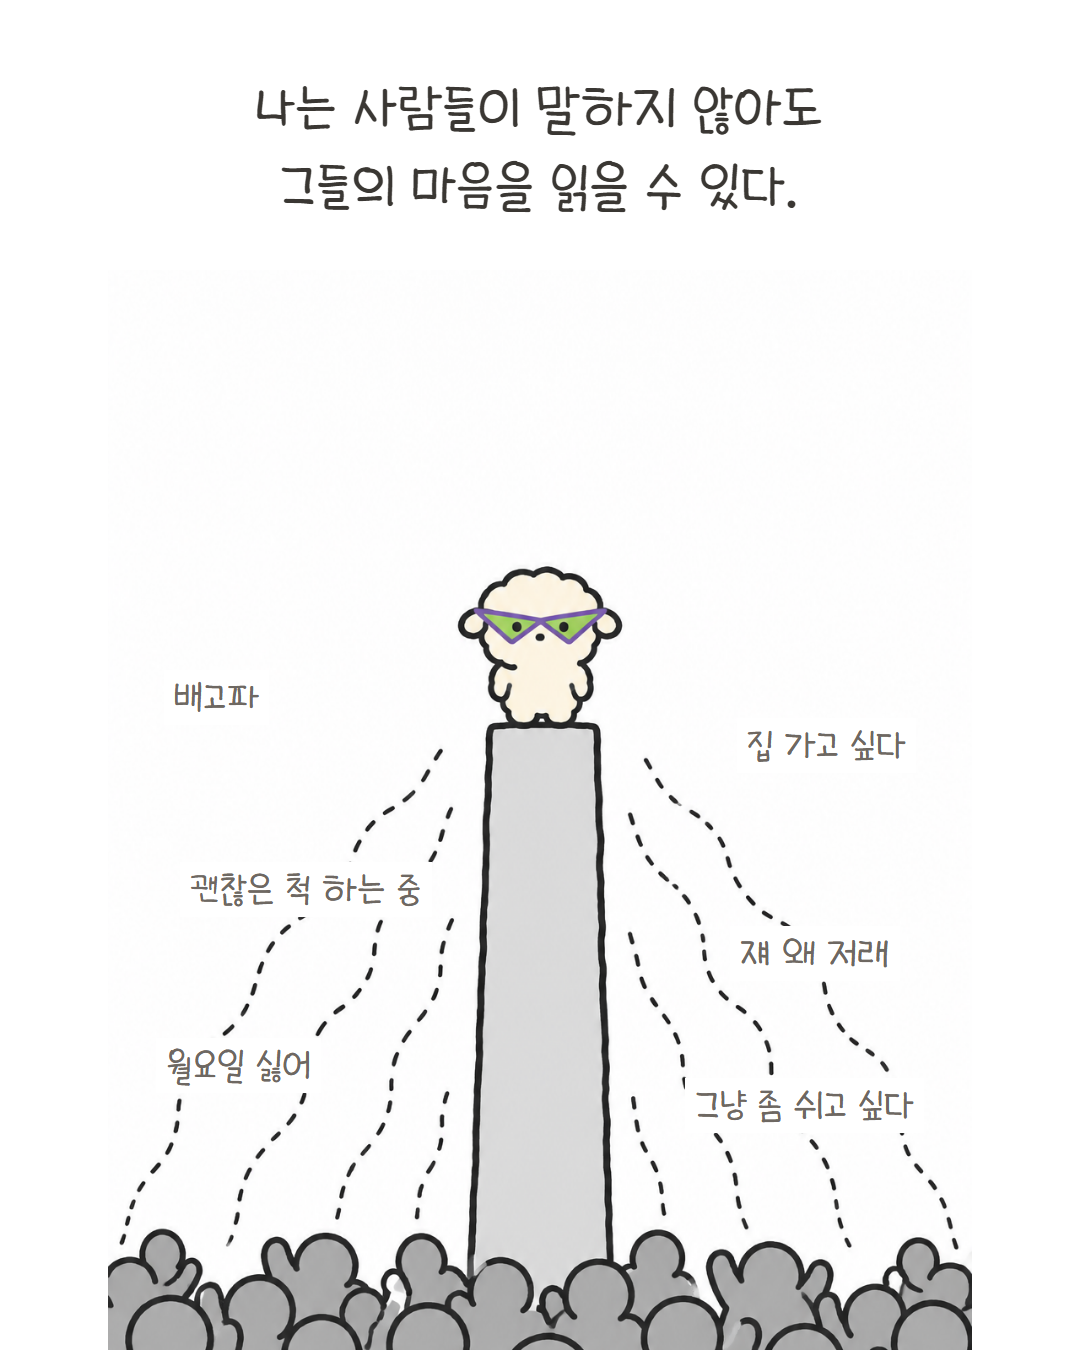
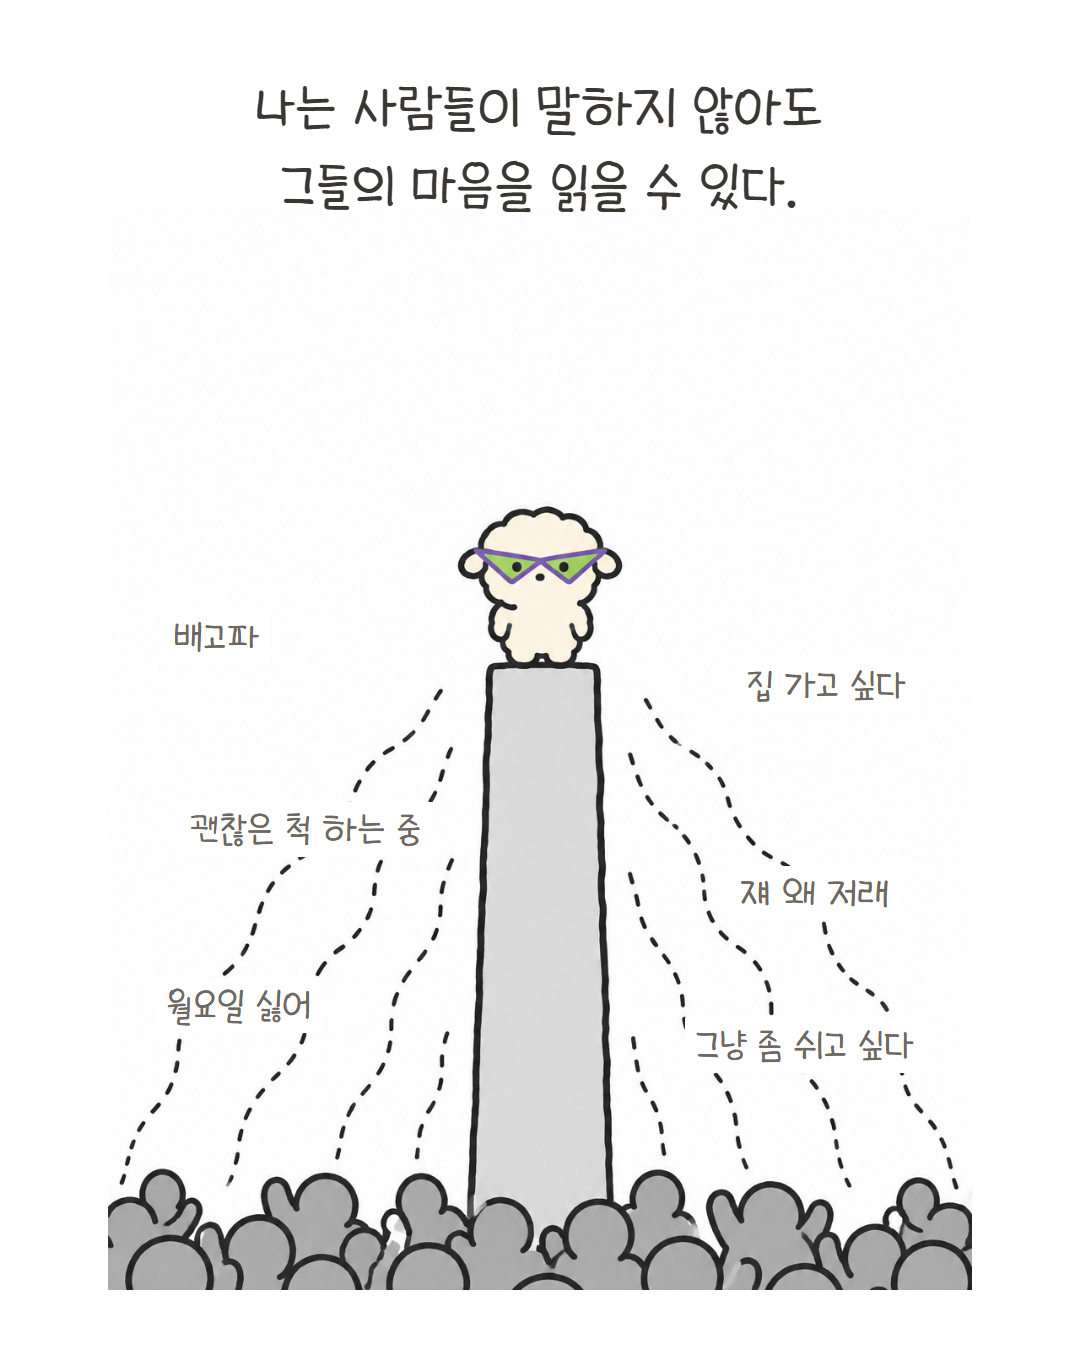
EP.01 컷1도 하단 여백 적용, 캡션 규칙: 내레이션 전문 + CTA + 태그

diff --git a/episodes/ep01/preview.html b/episodes/ep01/preview.html
@@ -28,14 +28,26 @@
   <img src="img/slide7.png" alt="slide 7">
   <img src="img/slide8.png" alt="slide 8">
   <h1>캡션</h1>
-  <pre>나는 눈치가 빠르다는 말을 자주 듣는다.
-사실은 빠른 게 아니라, 안 보려고 해도 보이는 것뿐이다.
-표정이 한 번 흔들리면 그 사람이 괜찮지 않다는 걸 알아 버리고,
-그때부터는 내 하루가 아니라 그 사람의 하루를 살게 된다.
+  <pre>나는 사람들이 말하지 않아도
+그들의 마음을 읽을 수 있다.
 
-그게 힘들어서 이 능력을 꺼 버리고 싶은 날도 많았다.
-그런데 이상하게, 내가 못 챙긴 나를 챙겨 준 건
-늘 내가 먼저 알아봐 줬던 사람들이었다.
+이 능력 덕분에
+많은 이들로부터 환영을 받기도 하고
+
+때로는 주류 무리의 반대를 무릅쓰고
+소외되는 이에게 손 내미는 영웅적 면모도 보여 준다.
+
+이 능력 때문에 필요 없는 눈치를 보거나
+손해를 자처할 때도 많고
+
+스스로의 마음을 돌보지 못하는 나를 미워하거나
+지난 날의 영웅적인 선택들까지 후회하기도 한다.
+
+그렇지만 내가 나를 챙기지 못할 때면,
+항상 내가 지켜낸 사람들이 나를 지켜 줬다.
+
+나는 앞으로도 사람들의 마음을 외면하지 않을 것이다.
+내가 건넨 손길들로 내 주변을 따뜻하게 할 수만 있다면.
 
 당신 옆의 초능력자를 태그해 주세요.
 

diff --git a/episodes/ep01/compose.html b/episodes/ep01/compose.html
@@ -23,7 +23,6 @@
   #s7 .cta{top:250px;bottom:auto}
   .cta{position:absolute;left:70px;right:70px;bottom:44px;text-align:center;font-size:38px;color:var(--point)}
   .dim img.art{filter:saturate(.7)}
-  #s1 img.art{bottom:0}
 </style>
 </head>
 <body>
@@ -38,12 +37,12 @@
   <img class="art" src="img/cut1.png" alt="" style="object-position:50% 50%">
   <div class="narr">나는 사람들이 말하지 않아도
 그들의 마음을 읽을 수 있다.</div>
-  <div class="mind t" style="left:164px;top:670px">배고파</div>
-  <div class="mind t" style="right:164px;top:718px">집 가고 싶다</div>
-  <div class="mind t" style="left:180px;top:862px">괜찮은 척 하는 중</div>
-  <div class="mind t" style="right:180px;top:926px">쟤 왜 저래</div>
-  <div class="mind t" style="left:156px;top:1038px">월요일 싫어</div>
-  <div class="mind t" style="right:156px;top:1078px">그냥 좀 쉬고 싶다</div>
+  <div class="mind t" style="left:164px;top:610px">배고파</div>
+  <div class="mind t" style="right:164px;top:658px">집 가고 싶다</div>
+  <div class="mind t" style="left:180px;top:802px">괜찮은 척 하는 중</div>
+  <div class="mind t" style="right:180px;top:866px">쟤 왜 저래</div>
+  <div class="mind t" style="left:156px;top:978px">월요일 싫어</div>
+  <div class="mind t" style="right:156px;top:1018px">그냥 좀 쉬고 싶다</div>
 </section>
 
 <section id="s2">

diff --git a/.claude/skills/make-episode/SKILL.md b/.claude/skills/make-episode/SKILL.md
@@ -43,7 +43,7 @@ description: 「작은 힘에도 작은 책임은 따른다」 에피소드 1편
 - 표지: 제목 3줄 이내, 핵심 단어 `<b>`로 포인트 컬러.
 - 컷: 상단 내레이션, **줄바꿈은 콘티에 적힌 그대로** (임의로 줄 수를 늘리지 않는다). 크기는 레퍼런스 실측(솜비 글자 높이 56px, 서밤 40px) 기준 내레이션 **56px**, 긴 줄은 그 슬라이드만 폭에 맞춰 자동 축소. 속마음·대사 **40px** 회색, 말풍선·박스 없이 캐릭터 옆에. CTA 38px.
 - Playwright MCP로 각 `<section>`을 `img/slideN.png`로 스크린샷 (viewport 1080×1350, `clip`). MCP 브라우저가 사용 중이면 `chrome-headless-shell.exe --headless --window-size=1080,1350 --virtual-time-budget=10000 --screenshot=img/slideN.png compose.html?only=N` (N은 0부터; `?only`는 compose.html에 그 슬라이드만 남기는 스크립트로 처리).
-- 이미지 크롭은 `object-position:50% 100%`(하단 기준)로 발이 안 잘리게 하고, 표지는 `object-fit:contain`.
+- 이미지 크롭은 `object-position:50% 100%`(하단 기준)로 발이 안 잘리게 하고, 표지는 `object-fit:contain`. 그림은 **80%로 축소**해 하단 60px·좌우 여백을 두고(`transform:scale(.8)`, 하단 기준), 모든 컷 동일 적용 — 군중처럼 프레임에 닿는 컷도 예외 없음.
 - 속마음 등 그림 옆 텍스트는 `python scripts/art_bbox.py img/cutN.png`로 그림 영역을 잰 뒤 그 밖에 놓는다. 프롬프트의 "상단 40% 비움"은 대략만 지켜지고(30~47%), 글자 폭은 폰트마다 달라 눈대중으로 두면 겹친다.
 
 ## 4. 산출물과 마무리
@@ -55,7 +55,7 @@ episodes/epNN/
   img/cutN.png, slideN.png
   compose.html
   preview.html    슬라이드 8장 세로 나열 (모바일 확인용)
-  caption.txt     캡션 1–2줄 + 고정 해시태그
+  caption.txt     컷 1–7 내레이션 전문(컷별 문단, 줄바꿈 그대로) → 빈 줄 → "당신 옆의 초능력자를 태그해 주세요." → 해시태그
 ```
 
 - 고정 해시태그: `#작은힘에도작은책임은따른다 EP.NN` 줄 + `#인스타툰 #일상툰 #공감툰` (MBTI 관련 태그 없음)
